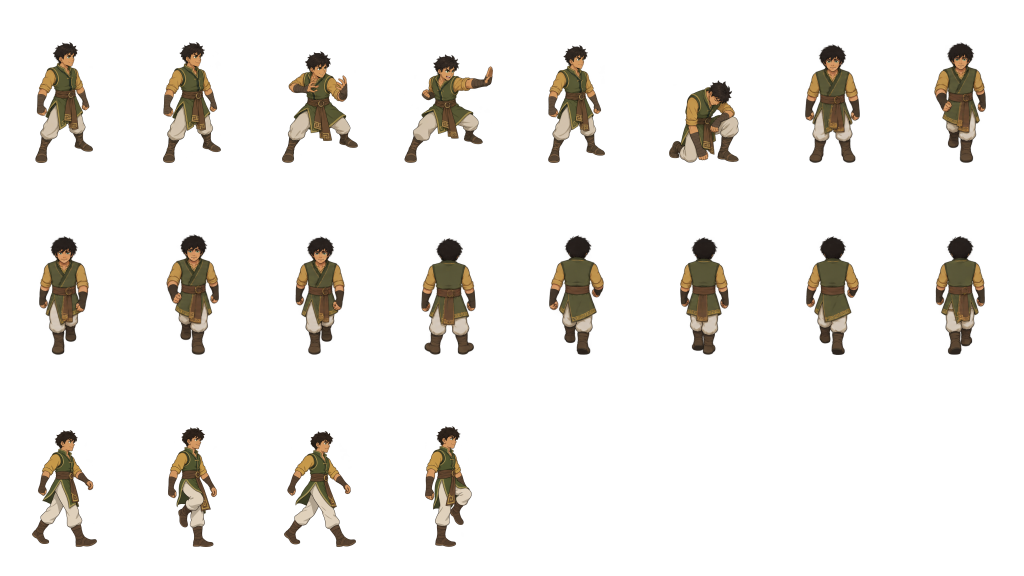
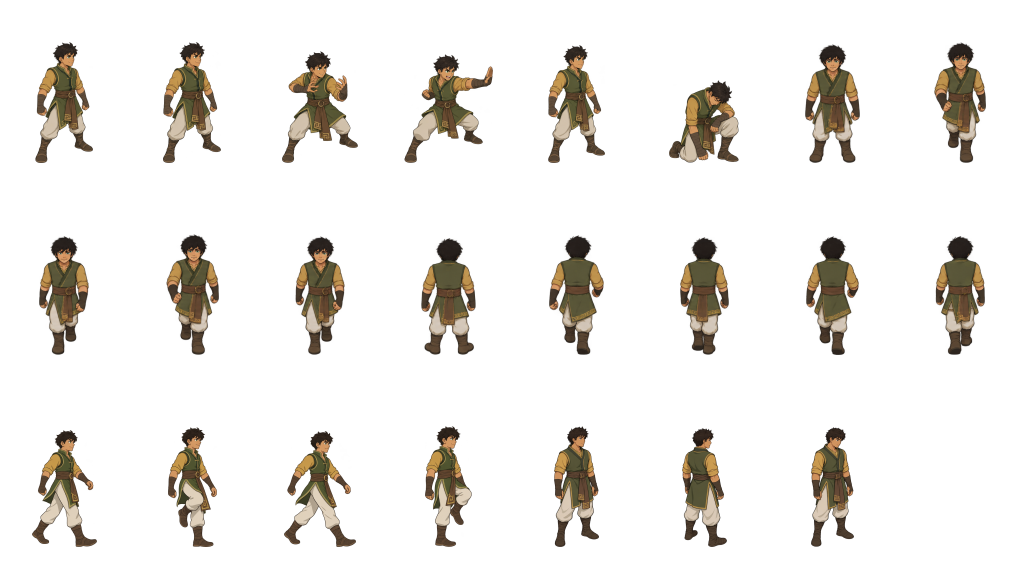
Complete relaxed rest poses for the courtyard party

Changed region(s): [[0.7812, 0.75, 0.8438, 0.9688], [0.6562, 0.75, 0.7188, 0.9688], [0.5312, 0.75, 0.5938, 0.9688]]

diff --git a/src/content/assets/manifest.ts b/src/content/assets/manifest.ts
@@ -94,7 +94,7 @@ const heroSheet = (key: string, palette: string): SheetEntry => {
       idleSouth: { frames: frames('idleSouth', 1), fps: 1, loop: true },
       walkNorth: { frames: frames('walkNorth', 4), fps: 4, loop: true },
       walkSouth: { frames: frames('walkSouth', 4), fps: 4, loop: true },
-      ...(!key.startsWith('unit.village.') && ['nima', 'kaya', 'sura'].includes(name)
+      ...(!key.startsWith('unit.village.') && ['nima', 'kaya', 'sura', 'bo', 'wen'].includes(name)
         ? {
             rest: { frames: frames('rest', 1), fps: 1, loop: true },
             restNorth: { frames: frames('restNorth', 1), fps: 1, loop: true },

diff --git a/docs/art/party-rest-poses.md b/docs/art/party-rest-poses.md
@@ -27,3 +27,22 @@ Packing uses `rest-poses.ts`, uniform shared pose scale per hero from the origin
 idle height, then the established foot baseline. All forty pre-existing frames
 were unchanged. Unit family size after this batch: 3.92 MB of the 4 MB budget.
 Integrated stop/turn/walk review is still required before accepting this batch.
+
+Batch one was reviewed in runtime f142f72 on Canvas and WebGL at 1672×941 and
+820×1180, including sampled walking, turns and fully resting groups. Identity,
+body height and ground contact held in those views. This is bounded pose review,
+not approval of the whole reference target or a physical-device claim.
+
+## Batch two: Bo and Wen
+
+Same image-tool workflow, date and provenance, using each character's canonical
+pose reference. Bo source `exec-1f1d052b-608f-40df-9704-ae52561f7c3c.png` preserves
+his clean-shaven face, sturdy build, olive tunic, ochre sleeves, cream trousers
+and brown wraps. Wen source `exec-c4777a2c-f585-4bcf-bf1b-8dd6233310ce.png`
+preserves blond hair, goggles, blue-grey work jacket, pale shirt, tool belt,
+charcoal trousers and the mechanical gauntlet on his right arm in all views.
+
+Both prompts use the same three relaxed directional poses and visual constraints
+as batch one. Bo's hands stay low; Wen's heavy gauntlet rests beside his thigh.
+Packing again confirmed all forty previous frames unchanged. Integrated actual
+scale and transition review remains required for this second batch.
